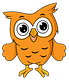
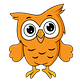
re-cropped and uploaded theme images so they have clear background

diff --git a/css/gameboard.css b/css/gameboard.css
@@ -1,4 +1,4 @@
-/* nav{
+nav{
   background-color: #5F6366;
   height: 75px;
   display: flex;
@@ -12,7 +12,7 @@
   display: flex;
   justify-content: center;
   align-items: flex-end;
-} */
+}
 
 header {
   background-color: #5F6366;
